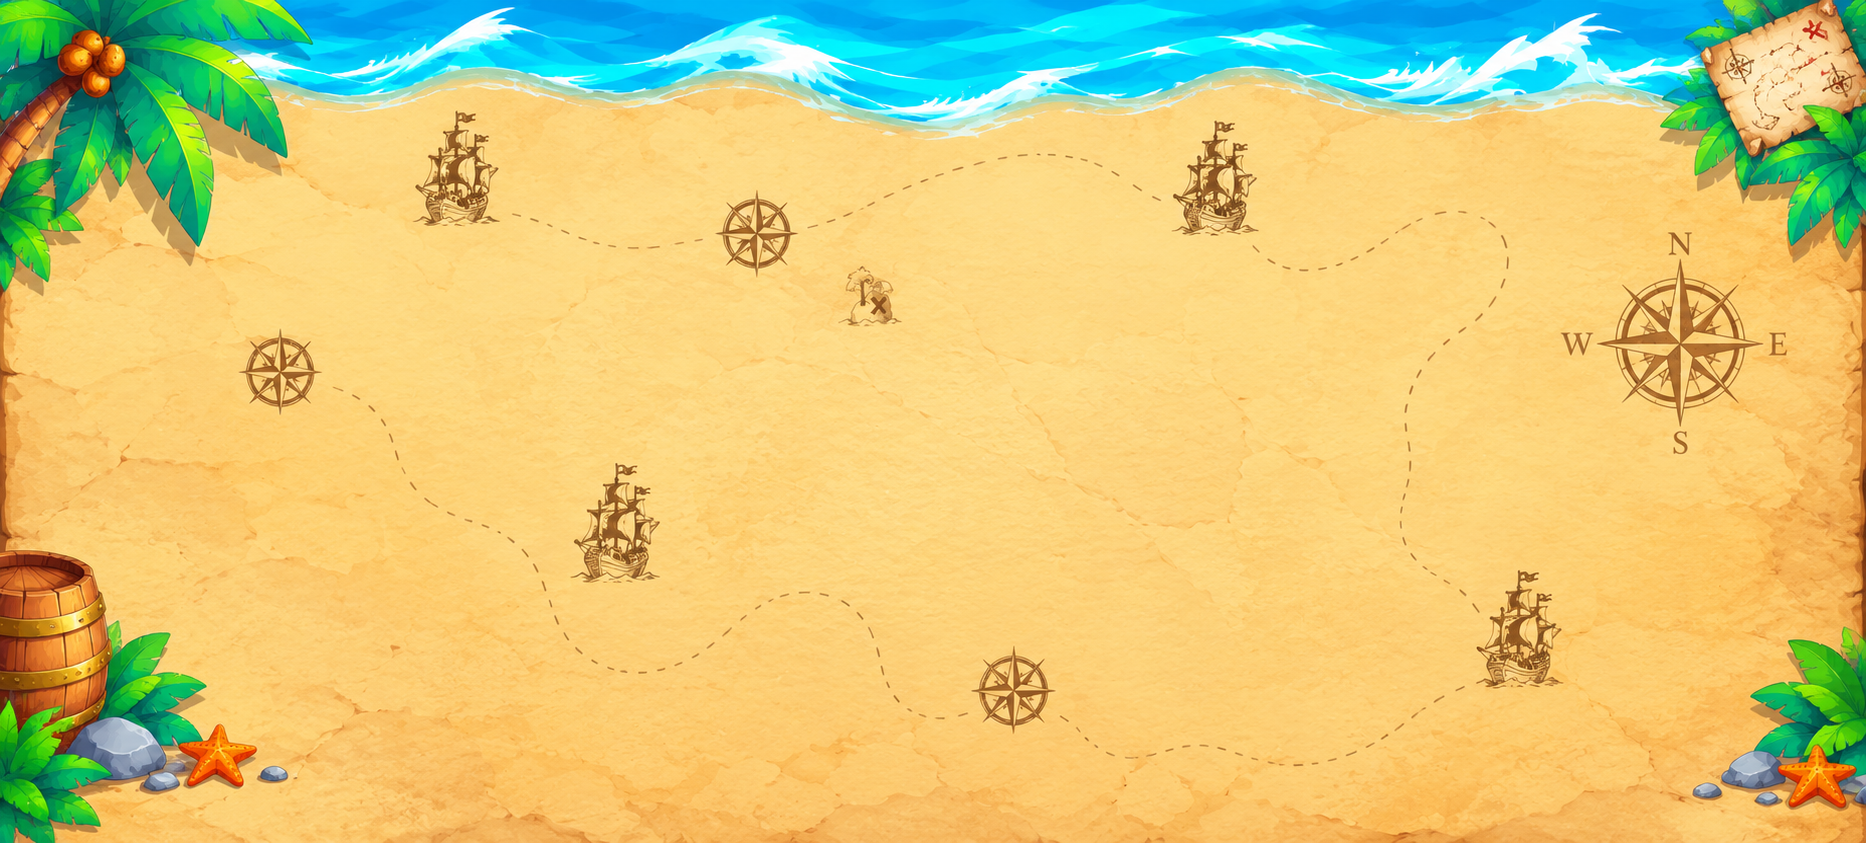
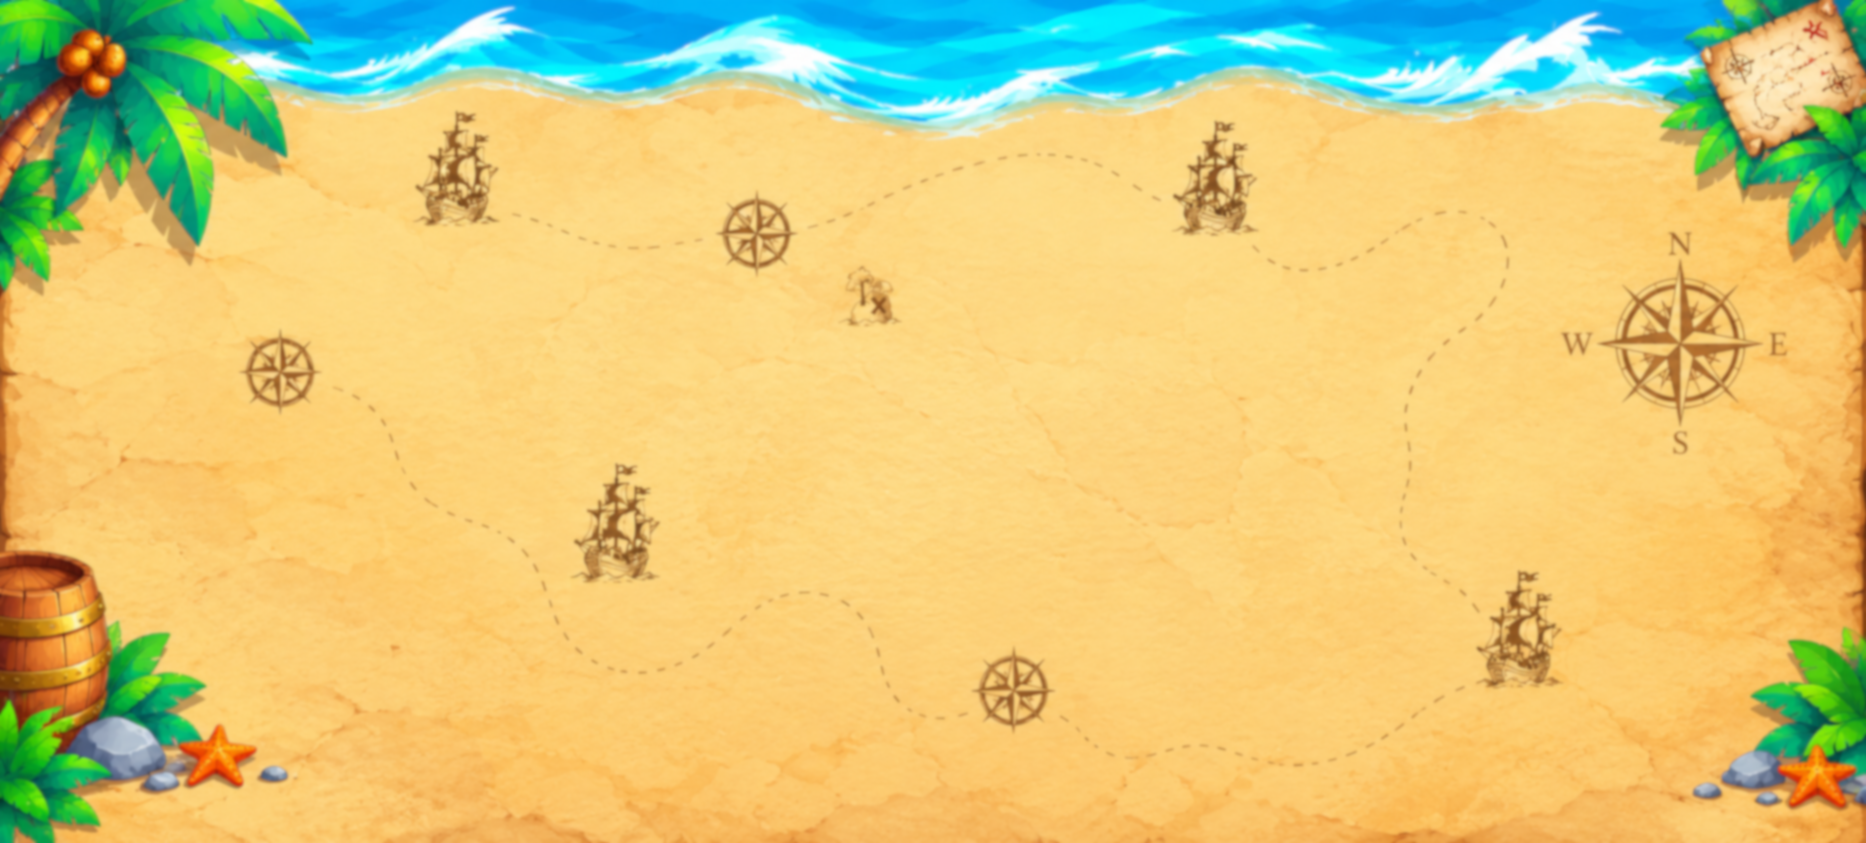
Push full code

diff --git a/html/login_register.html b/html/login_register.html
@@ -28,21 +28,17 @@
         <!-- Home Page Navigation Bar links -->
         <nav class="navbar-links">
             <ul>
-                <!-- Home page icon-->
                 <li><a href="../index.html">
                     <img src="../assets/images/home-page-icon.png" alt="Home Page icon"></a>
                 </li>
-                <!-- Home page icon-->
                 <li><a href="login_register.html">
                     <img src="../assets/images/signup-icon.png" alt="Login Page Icon"></a>
                 </li>
-                <!-- Home page icon-->
-                <li><a href="score_board.html">
-                    <img src="../assets/images/scoreboard-icon.png" alt="Score Board Icon"></a>
-                </li>
-                <!-- Home page icon-->
                 <li><a href="play_game.html">
                     <img src="../assets/images/play-icon.png" alt="Play Game Icon"></a>
+                </li>
+                <li><a href="score_board.html">
+                    <img src="../assets/images/scoreboard-icon.png" alt="Score Board Icon"></a>
                 </li>
                 <li><a href="about_me.html">
                     <img src="../assets/images/about_page-icon.png" alt="About Us Icon"></a>

diff --git a/html/score_board.html b/html/score_board.html
@@ -28,17 +28,14 @@
                 <li><a href="../index.html"> 
                     <img src="../assets/images/home-page-icon.png" alt="Home Page icon"></a>
                 </li>
-                <!-- Home page icon-->
                 <li><a id="login-register-button"href="login_register.html">
                     <img src="../assets/images/signup-icon.png" alt="Login Page Icon"></a>
                 </li>
-                <!-- Home page icon-->
-                <li><a href="score_board.html">
-                    <img src="../assets/images/scoreboard-icon.png" alt="Score Board Icon"></a>
-                </li>
-                <!-- Home page icon-->
                 <li><a href="play_game.html">
                     <img src="../assets/images/play-icon.png" alt="Play Game Icon"></a>
+                </li>
+                <li><a href="score_board.html">
+                    <img src="../assets/images/scoreboard-icon.png" alt="Score Board Icon"></a>
                 </li>
                 <li><a href="about_me.html">
                     <img src="../assets/images/about_page-icon.png" alt="About Us Icon"></a>

diff --git a/index.html b/index.html
@@ -31,11 +31,11 @@
                 <li><a id="login-register-button" href="html/login_register.html">
                     <img src="assets/images/signup-icon.png" alt="Login Page Icon"></a>
                 </li>
-                <li><a href="html/score_board.html">
-                    <img src="assets/images/scoreboard-icon.png" alt="Score Board Icon"></a>
-                </li>
                 <li><a href="html/play_game.html">
                     <img src="assets/images/play-icon.png" alt="Play Game Icon"></a>
+                </li>
+                <li><a href="html/score_board.html">
+                    <img src="assets/images/scoreboard-icon.png" alt="Score Board Icon"></a>
                 </li>
 
                 <li><a href="html/about_me.html">

diff --git a/html/about_me.html b/html/about_me.html
@@ -33,12 +33,12 @@
                     <img src="../assets/images/signup-icon.png" alt="Login Page Icon"></a>
                 </li>
 
-                <li><a href="score_board.html">
-                    <img src="../assets/images/scoreboard-icon.png" alt="Score Board Icon"></a>
-                </li>
-
                 <li><a href="play_game.html">
                     <img src="../assets/images/play-icon.png" alt="Play Game Icon"></a>
+                </li>
+
+                <li><a href="score_board.html">
+                    <img src="../assets/images/scoreboard-icon.png" alt="Score Board Icon"></a>
                 </li>
 
                 <li><a href="about_me.html">
